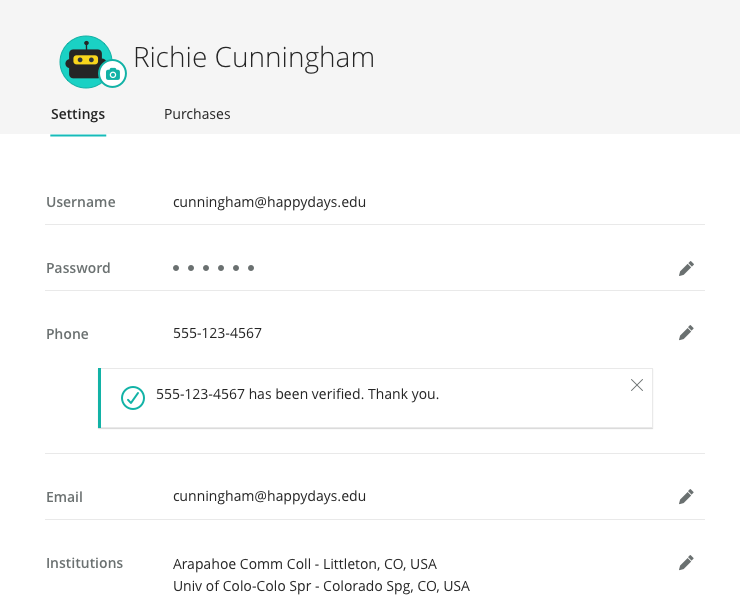
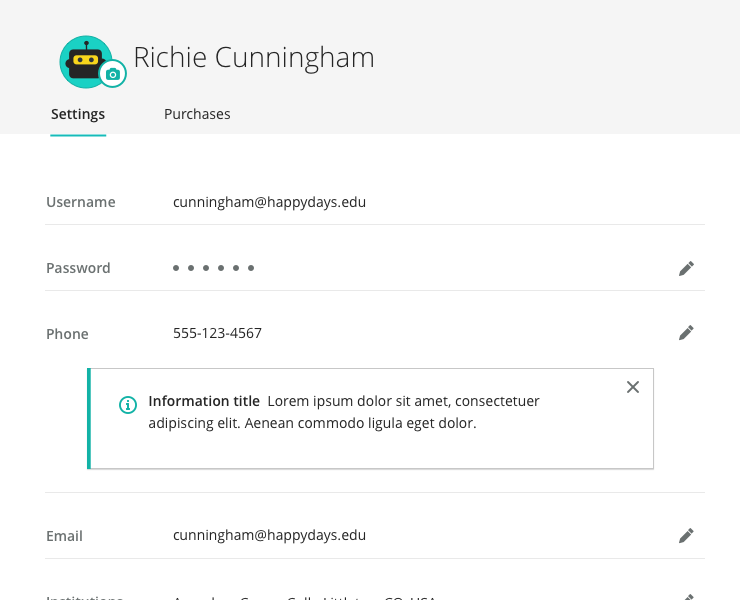
adding redlines
adding redlines and modified screenshot for new padding and spacing

diff --git a/c/alerts/v2.0.0-beta.1/index.md b/c/alerts/v2.0.0-beta.1/index.md
@@ -4,12 +4,15 @@ title: Alerts
 section: Components
 redirect_from: /docs/ui-components/application-header/
 version: 2.0.0-beta.1
-status: active
+status: deprecated
 implemented: false
 people:
   - role: Product Owner
     name: Joe Macaluso
     email: joe.macaluso@pearson.com
+  - role: Interaction Design
+    name: Parker
+    email: parker.malenke@pearson.com
   - role: Visual Design
     name: Lynn Chang
     email: lynn.chang@pearson.com
@@ -37,37 +40,67 @@ usage_guidelines: |
 
 blocks:
   - type: section
-    name: Static alerts
+    name: Popover alerts (Static)
 
   - type: two column
     text: |
-      When a message needs to be displayed upon page load (there was an error confirming an email address, for example) the alert should appear statically in the upper left corner of the page. This location makes it  noticeable even when the user's screen is magnified.
+      When a message needs to be displayed upon page load (there was an error confirming an email address, for example) the alert should appear statically in the upper left corner of the page ( or center in mobile). This location makes it  noticeable even when the user's screen is magnified.
 
     contents:
       - type: wide image
         src: ./assets/alert_over.png
         caption: The message should appear in the upper corner as part of the normal page load.
-      - type: wide video
-        src: ./assets/animation.mp4
-        caption: Example of the animation for displaying and dismissing a dynamic alert.
 
   - type: two column
     text: |
-        An system alert message should appear statically under the header at full width of the page.
+      At responsive sizes the alert occupies the entire top of the viewport.
+    contents:
+      - type: wide image
+        src: ./assets/alerts_spec_popover_mobile.png
+        caption: Responsive popover alert.
+
+  - type: section
+    name: Popover alerts (Dynamic Presentation)
+
+  - type: two column
+    text: |
+      Alerts can also appear dynamically in response to user actions like submitting a form, choosing an option, or completing an assignment. In this case the alert will animate down from the top.
+    contents:
+      - type: wide video
+        src: ./assets/animation.mp4
+        caption: The animation for showing/dismissing a dynamic alert.
+
+  - type: section
+    name: Page level alerts
+
+  - type: two column
+    text: |
+      The message should appear under the Pearson header, which will push all the content down below it.
+
+      The error and warning will stay visible till the alerts is cleared.
 
     contents:
         - type: wide image
           src: ./assets/alert_fullpage.png
-          caption: The message should appear in full width under the header area.
+          caption: The message should appear under the Pearson header, with full width of the screen area.
+        - type: narrow image
+          src: ./assets/alert_mobile 2.png
+          caption: Example of responsive version of the page level alert.
+
+  - type: section
+    name: Content (task) level alerts
 
   - type: two column
     text: |
-      At responsive sizes the alert occupies the entire width of the content area.
-    contents:
-      - type: narrow image
-        src: ./assets/alert_mobile.png
-        caption: Responsive alert.
+      The alert that applies to a specific task or section content will be displayed above or below where the action occurred.
 
+    contents:
+        - type: wide image
+          src: ./assets/alert_inline.png
+          caption: The example of message appear below the content area.
+        - type: narrow image
+          src: ./assets/alert_mobile.png
+          caption: Example of responsive version content level alert.
 
   - type: section
     name: Alert Types
@@ -79,30 +112,87 @@ blocks:
         - Use when an issue that may or may not cause problems for the users, but the user should know about.
         - Example: System alert
 
+      Error
+      : - Use to let user know that something has gone wrong and it needs to be resolved to complete the task. IT can also provide suggestions on how to proceed.
+        - Use to communicate an unsuccessful action
+        - Example: Form Error, login error, search error.
+
       Success
       : - Use to tell user that a task has been completed successfully.
         - Use to let user know that everything is working property.
         - Example: Submitting a form, completing a quiz
+        - The success alert can be closed to save screen estate.
 
       Information
       : - Use to inform the user about something relevant: to share tips or suggestions.
         - Use to let user know that everything is working property.
         - Example: Information about the specific content
-
-      Error
-      : - Use to let user know that something has gone wrong and it needs to be resolved to complete the task. IT can also provide suggestions on how to proceed.
-        - Use to communicate an unsuccessful action.
-        - Example: Form Error, login error, search error.
+        - The information alert can be closed to save screen estate.
 
     contents:
       - type: wide image
-        src: ./assets/alert_all.png
-        caption:
+        src: ./assets/alerts_all.png
 
+
+  - type: section
+    name: Redlines
+
+  - type: two column
+    text: |
+      Dimensions
+      : - Color bar is 3px high
+        - Horizontal and bottom padding is 28px (desktop)
+
+      Colors
+      : - Error and warning color is [Strawberry Red](/design/c/colors/v2.0.0-beta.7/#rd-strawberry-red)
+        - Success and information color is [Digital Marine Turquoise](/design/c/colors/v2.0.0-beta.7/#rd-digital-marine-turquoise)
+        - Background is [White](/design/c/colors/v2.0.0-beta.7/#rd-white)
+
+      Typography
+      : - Title is [Bold Text](/design/c/typography/v2.0.0/#rd-bold-text)
+        - Message is [Basic Body Copy](/design/c/typography/v2.0.0-beta.3/#rd-basic-body)
+
+      Animation
+      : - Drop in uses an ease-in-out easing curve with a duration of 300ms
+        - Slide out uses an ease-in easing curve with a duration of 200ms
+
+      Focus Behavior
+      : - Most alerts can just be announced by using ARIA alert roles and don't need special focus treatment
+        - If an alert is particularly important, focus should be moved to the first element of the alert (and restored to it's original position upon dismissal)
+        - Statically presented alerts should just be read and focused in the normal flow of the document
+
+    contents:
+
+      - type: wide image
+        src: ./assets/alerts_spec_popover.png
+        caption: Popover alert
+
+      - type: wide image
+        src: ./assets/alerts_spec_popover_mobile.png
+        caption: Popover alert
+
+      - type: wide image
+        src: ./assets/alerts_spec_desktop 1.png
+        caption: Content ( task ) level alert
+
+      - type: wide image
+        src: ./assets/alerts_spec_mobile1.png
+        caption: Responsive version content(task)level alert
+
+      - type: wide image
+        src: ./assets/alerts_spec_desktop 2.png
+        caption: Page level alert
+
+      - type: wide image
+        src: ./assets/alerts_spec_mobile2.png
+        caption: Responsive version page level alert
 
 
 
 changelog:
+  - version: 2.0.0-beta.1
+    changes: |
+      - CHANGED: New visual design. adding more alert types
   - version: 1.0.0-beta.5
     changes: |
       - CHANGED: Uses basic CSS easing curves, rather than springs.
